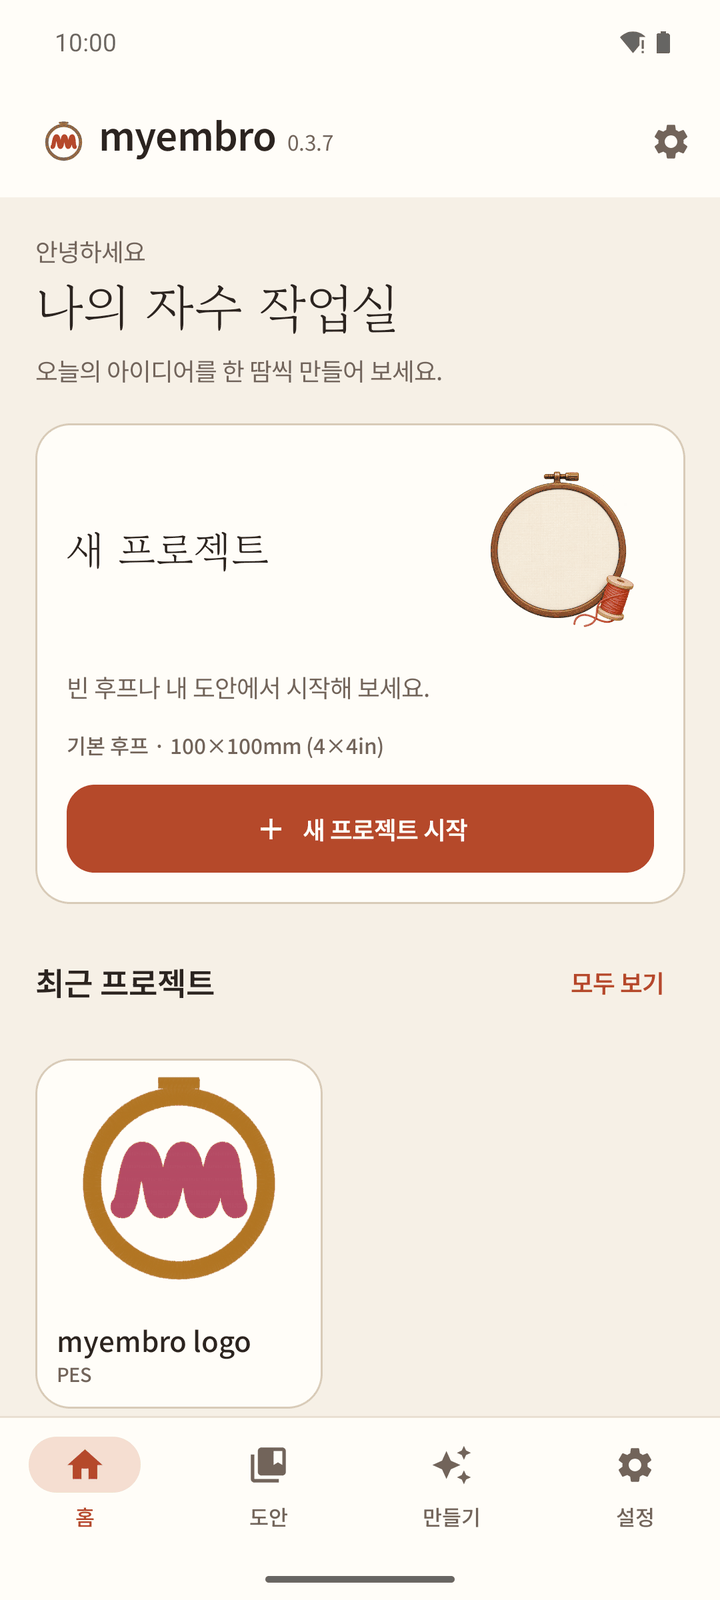
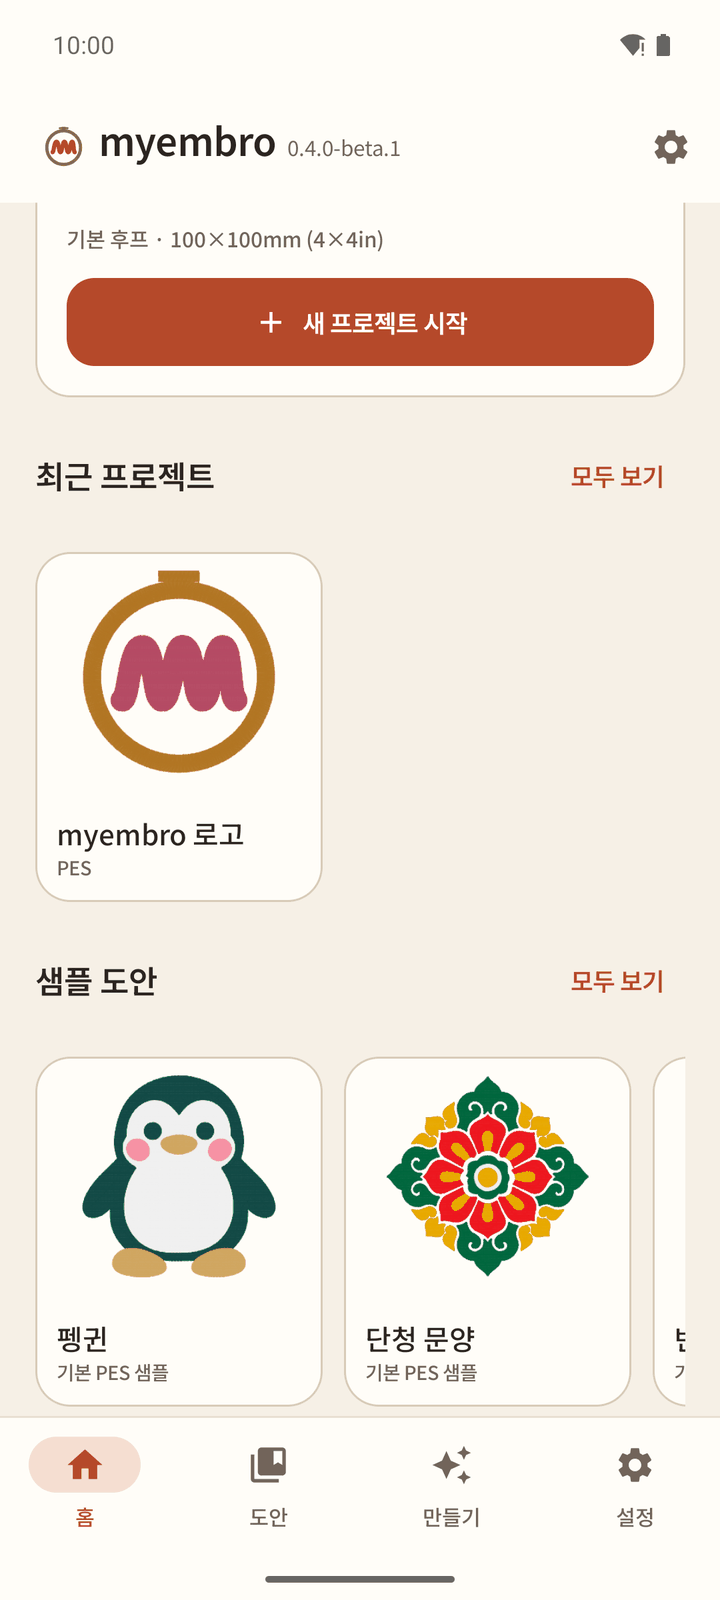
Docs: 136 sample designs, whole-picture crop, separate thread colors
User guide (ko/en) and README (ko/en), one short sentence each: samples open
from Home or the Designs tab's Samples into a project of your own; the photo
crop can zoom out to fit the whole picture; different colors are never
merged into one thread. Home screenshots retaken with the new sample row.

diff --git a/docs/manual/user-guide.md b/docs/manual/user-guide.md
@@ -27,7 +27,7 @@ Install the APK from the latest GitHub pre-release. The home screen opens first.
 
 - **New project** card: shows the default hoop (100×100mm, 4×4in). Tap **Start a new project**.
 - **Recent projects**: saved designs and projects appear here. **View all** opens the full list; **Import design** opens a PES/PEC/DST file from the phone.
-- **Sample designs**: built-in designs you can open right away.
+- **Sample designs**: six of the 136 built-in designs; open any one here, from **View all** or from **Samples** on the Designs tab and it is copied into a new project of your own in the editor.
 - Bottom bar: **Home**, **Designs**, **Create**, **Settings**. The gear at the top right also opens Settings.
 
 ## 2. Starting a new project
@@ -103,6 +103,8 @@ Single-line fonts (for example Hershey Script 1-stroke) offer **Normal** (runnin
 
 Choose **From a photo / drawing** on the new project sheet. The screen has three steps: crop, choose a mode, then the result.
 
+**Step 1 — crop.** You can zoom the picture out until the whole picture fits.
+
 You can also share a picture to myembro from another app (gallery, browser, files). It opens on this same screen. An SVG drawing is used as it is: only the size slider is shown.
 
 **Step 2 — mode.** Choose **Silhouette**, **Outline** or **Color drawing**. Color drawing with 4 colors is selected first.
@@ -120,6 +122,7 @@ You can also share a picture to myembro from another app (gallery, browser, file
 - The preview shows the picture in the actual thread colors.
 - Transparent background is not sewn. The most common color at the edge is treated as background.
 - Colors are matched to Brother threads automatically. If you set **My threads** (chapter 10), only your threads are used.
+- Different colors are never merged into the same thread.
 - Each color area is filled. Next to each other, colors overlap by 0.2mm so no gaps show. The outer edge of the design does not grow.
 - Each filled area gets a single-pass running outline in the same color. If an outline would fail the sewing check, that outline is left out.
 

diff --git a/docs/manual/user-guide.ko.md b/docs/manual/user-guide.ko.md
@@ -27,7 +27,7 @@
 
 - **새 프로젝트** 카드: 기본 후프(100×100mm, 4×4in)를 보여 줍니다. **새 프로젝트 시작**을 누릅니다.
 - **최근 프로젝트**: 저장한 도안과 프로젝트가 표시됩니다. **모두 보기**는 전체 목록, **도안 가져오기**는 휴대폰의 PES/PEC/DST 파일을 엽니다.
-- **샘플 도안**: 바로 열어 볼 수 있는 내장 도안입니다.
+- **샘플 도안**: 내장 도안 136개 중 6개가 보이고, **모두 보기**나 도안 탭의 **샘플**에서 하나를 열면 내 프로젝트로 복사되어 편집기가 열립니다.
 - 아래 막대: **홈**, **도안**, **만들기**, **설정**. 오른쪽 위 톱니바퀴도 설정을 엽니다.
 
 ## 2. 새 프로젝트 시작
@@ -103,6 +103,8 @@
 
 새 프로젝트 시트에서 **사진/그림**을 고릅니다. 자르기, 모드 선택, 결과의 3단계입니다.
 
+**1단계 — 자르기.** 그림을 줄여 그림 전체가 보이게 할 수 있습니다.
+
 다른 앱(갤러리, 브라우저, 파일)에서 그림을 myembro로 공유해도 이 화면이 열립니다. SVG 그림은 그대로 쓰고 크기 슬라이더만 나옵니다.
 
 **2단계 — 모드.** **실루엣**, **외곽선**, **컬러 그림** 중 하나를 고릅니다. 처음에는 컬러 그림 4색이 골라져 있습니다.
@@ -120,6 +122,7 @@
 - 미리보기는 실제 실 색으로 보여 줍니다.
 - 투명 배경은 봉제하지 않고, 테두리에서 가장 많은 색은 배경으로 뺍니다.
 - Brother 실에 자동으로 맞춥니다. **내 실**(10장)을 정해 두면 내 실만 씁니다.
+- 서로 다른 색을 같은 실로 합치지 않습니다.
 - 색 영역마다 채웁니다. 맞닿은 색은 0.2mm 겹쳐서 틈이 보이지 않습니다. 도안 바깥 테두리는 커지지 않습니다.
 - 채운 영역마다 같은 색 1겹 러닝 외곽선을 두릅니다. 외곽선이 봉제 점검에 걸리면 그 외곽선은 뺍니다.
 

diff --git a/README.ko.md b/README.ko.md
@@ -18,7 +18,10 @@
 
 ## 할 수 있는 것
 
+- 🎁 **샘플 도안 136개.** 홈 '샘플 도안'이나 도안 탭 '샘플'에서 열면 내 프로젝트로 복사되어 바로 고칠 수 있습니다.
 - 🖼 **사진·그림 → 자수.** 그림을 고르고 실루엣, 외곽선, 컬러 그림(2–6색) 중에서 고릅니다. 미리보기가 실제 실 색으로 보입니다.
+- 🔍 **사진 자르기.** 그림을 줄여 그림 전체가 보이게 자를 수 있습니다.
+- 🧵 **실 색.** 서로 다른 색을 같은 실로 합치지 않습니다.
 - 🔤 **레터링.** 한글과 영어 글자를 입력합니다. 자수 글꼴 72종과 내 TTF 글꼴을 쓸 수 있고, 안전하게 수놓이는 땀 종류를 앱이 고릅니다.
 - 😀 **이모지 → 자수.** 이모지를 한글로도 검색해 도안으로 바꿉니다.
 - ✂ **편집.** 후프 위에서 도안과 글자를 놓고, 크기를 바꾸고, 돌립니다.

diff --git a/README.md b/README.md
@@ -18,7 +18,10 @@ Free and open source.
 
 ## What you can do
 
+- 🎁 **136 sample designs.** Open one from **Sample designs** on Home or **Samples** on the Designs tab and it is copied into your own project to change.
 - 🖼 **Photo or drawing → embroidery.** Pick a picture and choose silhouette, outline or color drawing (2–6 colors). The preview shows the real thread colors.
+- 🔍 **Photo crop.** Zoom out so the whole picture fits in the crop.
+- 🧵 **Thread colors.** Different colors are never merged into the same thread.
 - 🔤 **Lettering.** Type text in Korean or English. 72 embroidery fonts, plus your own TTF fonts. The app picks a stitch type that sews safely.
 - 😀 **Emoji → embroidery.** Search emoji (Korean words work too) and turn one into a design.
 - ✂ **Edit.** Place, resize and rotate designs and text on the hoop.
